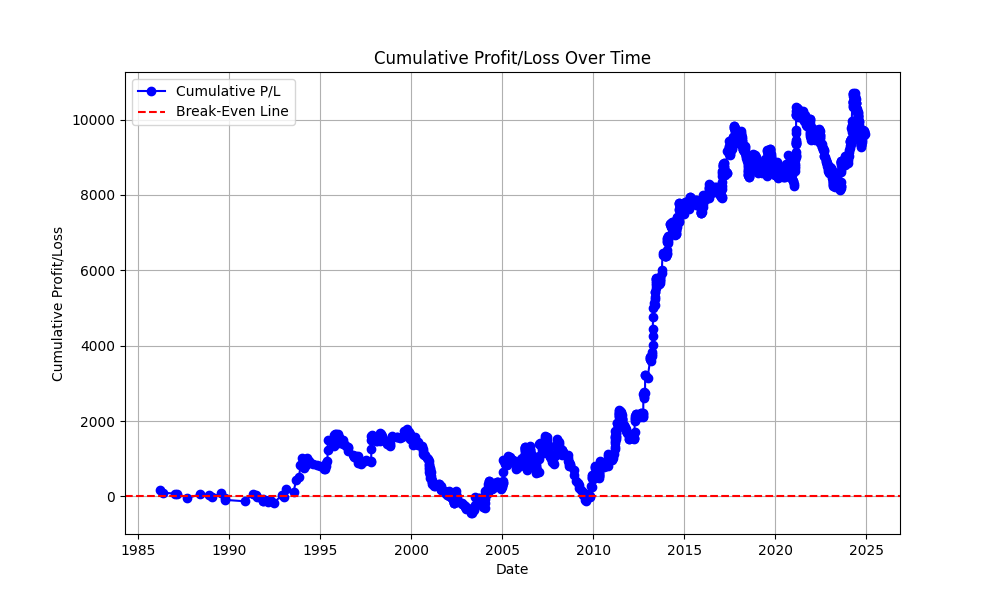
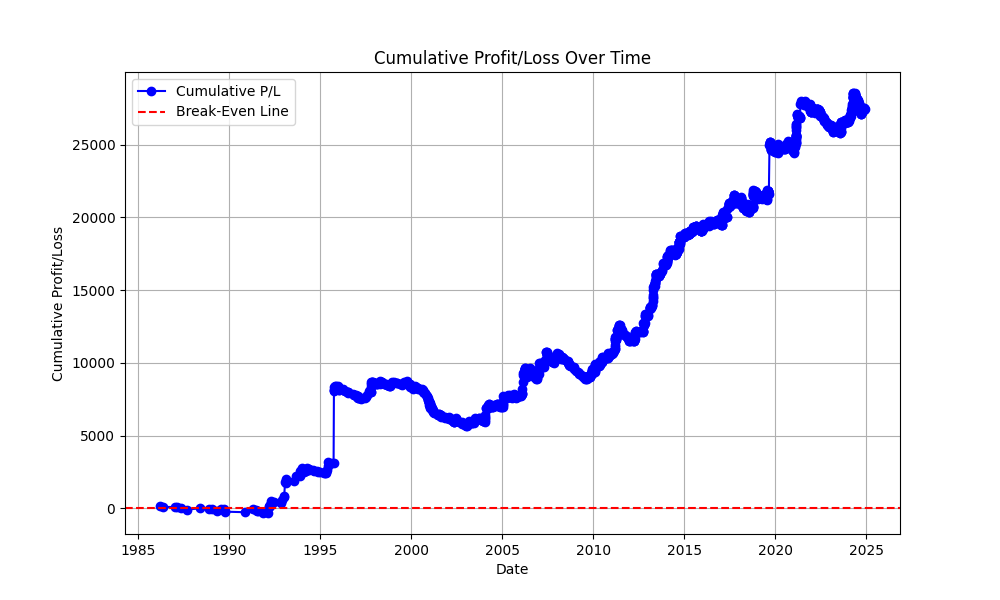
fixed warning from visual

diff --git a/TosChart/cleaner/cleaner.py b/TosChart/cleaner/cleaner.py
@@ -1,9 +1,7 @@
 
-def wash():
+def wash(uncleaned_data_path, cleaned_data_path):
     import os
-
-    uncleaned_data_path='/workspaces/TosChart/TosChart/uncleaned_data'
-    cleaned_data_path='/workspaces/TosChart/TosChart/cleaned_data'
+    
     files=os.listdir(uncleaned_data_path)
 
     # Loop through each file
@@ -17,18 +15,17 @@ def wash():
                 for i,line in enumerate(reversed(old)):
                     if 'Max trade' in line:
                         old=old[:-i]
-                        break
-                
-                
+
+                for i,line in enumerate(old):
+                    if ',' in line:
+                        old[i]=line.replace(',', '')
+
                 old.pop(1)  # Remove the second line
                 old.pop()
                 sid = old.pop(3)  # Pop the 4th line (index 3)
                 old[0] = old[0].replace('\n', ' ')  # Replace newline in the first line
                 old[0] += sid  # Append the SID to the first line
 
-            #makes sure the trailing line skips are taken out before calculating len
-            while old[-1]=='\n':
-                old.pop()
 
             #make sure the file has enough data
             if len(old)>=3:
@@ -49,4 +46,4 @@ def wash():
             continue
 
 if __name__=='__main__':
-    wash()
+    wash('/workspaces/TosChart/TosChart/uncleaned_data', '/workspaces/TosChart/TosChart/cleaned_data')

diff --git a/TosChart/visual.py b/TosChart/visual.py
@@ -1,4 +1,4 @@
-def data():
+def data(cleaned_data_path):
     import pandas as pd
     import os
     import traceback
@@ -8,8 +8,6 @@ def data():
 
 
     #this will give you a list of stocks from the folder
-    cleaned_data_path='/workspaces/TosChartWeb/TosChart/cleaned_data'
-
     stocks=os.listdir(cleaned_data_path)
 
     lists=[]
@@ -28,7 +26,8 @@ def data():
             for ind,num in enumerate(dt[date]):
                 if ind%2!=0:
                     if ind>0:
-                        dt[date][ind-1]+='-'+num
+                        dt.loc[ind-1, date]+='-'+num
+
                 #trying somethin
 
             dt['Trade P/L']=dt['Trade P/L'].shift(periods=-1)
@@ -54,7 +53,6 @@ def data():
             print(e)
             continue
 
-    print(lists)
     #added part for graphing stuff
     comb=pd.concat(lists)
     comb['Trade P/L'] = comb['Trade P/L'].str.replace(r'[\$,]', '', regex=True).replace(r'\((\d+(\.\d+)?)\)', r'-\1', regex=True)
@@ -85,14 +83,14 @@ def data():
     plt.legend()
     plt.grid(True)
     plt.show()
-    plt.savefig('graph')
+    plt.savefig('/workspaces/TosChartWeb/web/static/graph.png')
 
 
 
 
 
 if __name__=='__main__':
-    data()
+    data('/workspaces/TosChartWeb/TosChart/cleaned_data')
 
 
 

diff --git a/TosChart/cleaner/erase.py b/TosChart/cleaner/erase.py
@@ -1,0 +1,11 @@
+def clean_folder(folder_path):
+    import os
+    
+    # List all files in the folder
+    for filename in os.listdir(folder_path):
+        file_path = os.path.join(folder_path, filename)
+        os.remove(file_path)
+
+
+if __name__=='__main__':
+    clean_folder()

diff --git a/test.py b/test.py
@@ -1,0 +1,4 @@
+g=[x for x in range(5)]
+
+
+print(g)
